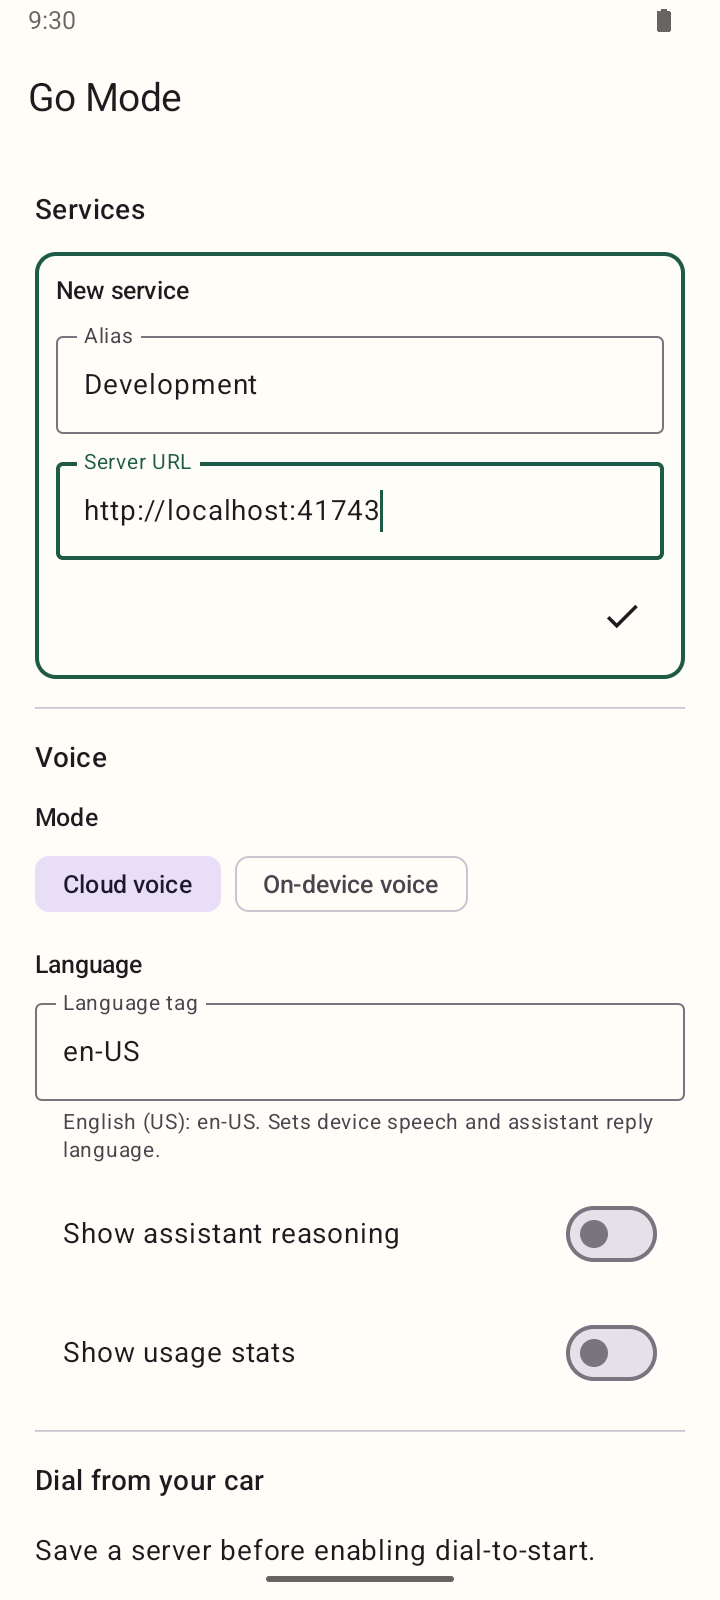
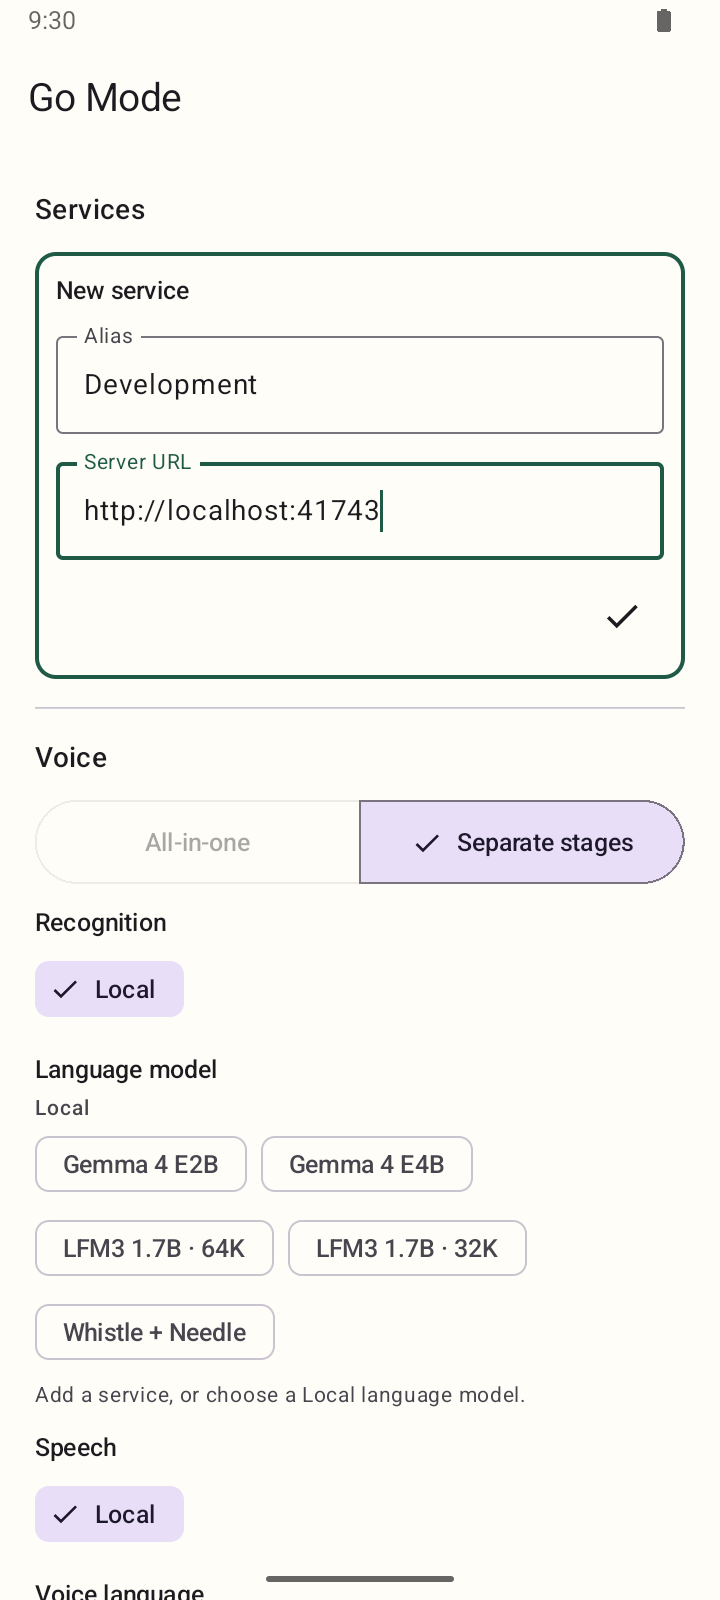
Sync guides and captures with gomode 4b814d6
Voice choices moved to an embedded voice-choices.toml with required,
stable ids; the guide now documents the override file, id rules,
context_size for managed llama.cpp, live-only recognition with the
nemospeech and whistle engines, KittenTTS, per-stage session language,
STUN advertisement, and the optional llama.cpp and Ollama keys. Groq
Whisper and the streaming flag are gone.

Android and web share one voice setup: All-in-one or Separate stages
with Recognition, Language model, and Speech chips. The Cloud voice,
On-device, and Remote LLM wording is replaced, and the Android guide
shows both setup captures. Voice now reaches only the active service,
withdrawn selections fall back to the gateway default, and voice errors
stay until dismissed.

Captures are 720x1600; the img attributes claimed 1080x2400. The SDK
regeneration command is make fix; make generate-sdks no longer exists.

Validation: pnpm run fix, verify, build, wrangler deploy --dry-run, and
the Playwright suite (2 passed, desktop and mobile).

diff --git a/guide/voice.md b/guide/voice.md
@@ -9,7 +9,7 @@ Go Mode’s gateway connects clients to a voice backend through one service-neut
 | Embedded   | Voice runs with the host process                                  | Host session policy            |
 | Standalone | Voice needs a separate machine, scaling, or local model isolation | Short-lived host-issued tokens |
 
-Embedded hosts mount `voicegateway.NewEmbeddedHandler` and advertise the gateway URL in discovery. Embed `voicegateway.Config` under a section of the host’s TOML file; the same `[[realtime]]`, `[[llm]]`, `[[asr]]`, `[[tts]]`, and `[[voice]]` entries apply. The [`Config` documentation](https://pkg.go.dev/github.com/maruel/gomode/voicegateway#Config) lists the startup calls. An external gateway runs `voice-gateway` and accepts only configured trusted issuers.
+Embedded hosts mount `voicegateway.NewEmbeddedHandler` and advertise the gateway URL in discovery. `voicegateway.ReadConfig` reads `voice-choices.toml` from the host’s configuration directory, with the same entries as the standalone gateway. The host embeds `voicegateway.WebRTCConfig` in its own TOML file for the UDP port and STUN servers. The [`Config` documentation](https://pkg.go.dev/github.com/maruel/gomode/voicegateway#Config) lists the startup calls. An external gateway runs `voice-gateway` and accepts only configured trusted issuers.
 
 ## Install the standalone gateway
 
@@ -36,7 +36,7 @@ Invoke-WebRequest -UseBasicParsing https://raw.githubusercontent.com/maruel/gomo
 | Service          | systemd user `voice-gateway.service`         | launchd user `com.maruel.voice-gateway` | Scheduled task `GoModeVoiceGateway`   |
 | Logs             | `journalctl --user -u voice-gateway.service` | `~/Library/Logs/voice-gateway.log`      | `voice-gateway.log` beside executable |
 
-The configuration is `~/.config/voice-gateway/config.toml`, or under `XDG_CONFIG_HOME` when set. Start from [contrib/config.toml](https://github.com/maruel/gomode/blob/main/contrib/config.toml). Replace the example trusted issuer before accepting clients.
+The configuration is `~/.config/voice-gateway/config.toml`, or under `XDG_CONFIG_HOME` when set. Start from [contrib/config.toml](https://github.com/maruel/gomode/blob/main/contrib/config.toml). Replace the example trusted issuer before accepting clients. The gateway restarts when `config.toml` or `voice-choices.toml` changes.
 
 Released binaries check for a new stable release every day at 04:50 local time and restart after active sessions drain. Set `auto_update` to another cron schedule, or to an empty string to disable updates.
 
@@ -51,7 +51,9 @@ voice-gateway -config ~/.config/voice-gateway/config.toml
 
 One gateway URL offers several named choices. Clients list them, filter them by transport, and save the user’s selection. A choice is the only thing a client selects; it never names a provider.
 
-The configuration declares choices in three groups, offered in this order:
+The release embeds [default choices](https://github.com/maruel/gomode/blob/main/voicegateway/voice-choices.toml) for Gemini, OpenAI, Anthropic, DeepSeek, OpenRouter, Mistral, Alibaba, and local models. To customize them, copy that file to `voice-choices.toml` beside `config.toml`. The copy replaces the defaults entirely and no longer follows later releases. Voice tables in `config.toml` stop startup.
+
+The file declares choices in three groups, offered in this order:
 
 - **`[[realtime]]`:** a speech-to-speech model that owns recognition, conversation, and synthesis.
 - **`[[llm]]`:** a language model with recognition and synthesis selected separately, either on the gateway or on the client.
@@ -59,70 +61,83 @@ The configuration declares choices in three groups, offered in this order:
 
 ```toml
 [[realtime]]
+id = "gemini-live"
 label = "Gemini Live"
 provider = "gemini"
 model = "gemini-3.8-live"
 
 [[llm]]
-id = "gemini_flash"
+id = "gemini-flash"
 label = "Gemini Flash"
 provider = "gemini"
 model = "gemini-3.8-flash"
 effort = "low"
 
 [[asr]]
-id = "whisper"
-label = "Groq Whisper"
-provider = "groq"
-model = "whisper-large-v3-turbo"
+id = "gemini-transcribe-live"
+label = "Gemini Transcribe"
+provider = "gemini"
+model = "gemini-3.5-transcribe-live"
 
 [[tts]]
-id = "gemini"
-label = "Gemini TTS"
+id = "gemini-tts"
+label = "Gemini Flash Lite TTS"
 provider = "gemini"
 model = "gemini-3.8-flash-lite-tts"
 voice = "Kore"
 
 [[voice]]
-label = "Groq Whisper with Gemini Flash"
-asr = "whisper"
-llm = "gemini_flash"
-tts = "gemini"
+id = "gemini-speech-flash"
+label = "Gemini speech with Gemini Flash"
+asr = "gemini-transcribe-live"
+llm = "gemini-flash"
+tts = "gemini-tts"
 ```
 
-`provider` names a [genai](https://github.com/maruel/genai) provider, such as `gemini`, `openai`, `anthropic`, `deepseek`, `openrouter`, `mistral`, `groq`, or `llamacpp`. `effort` requests a reasoning level from `off` to `max` where the model supports it. A `llamacpp` entry with `llamacppsrv = true` downloads and runs a managed llama.cpp server; `remote` points to a server you run. `provider = "openai"` with `auth = "codex"` uses the gateway user’s Codex login instead of an API key.
+Every entry needs an `id`: 1 to 64 lowercase letters, digits, `-`, or `_`, starting with a letter or digit. Clients save ids, so keep an entry’s id when you tune its other settings. Ids are unique among `[[realtime]]`, `[[llm]]`, and `[[voice]]` together, among `[[asr]]`, and among `[[tts]]`.
+
+`provider` names a [genai](https://github.com/maruel/genai) provider, such as `gemini`, `openai`, `anthropic`, `deepseek`, `openrouter`, `mistral`, `alibaba`, or `llamacpp`. `effort` requests a reasoning level from `off` to `max` where the model supports it. A `llamacpp` entry with `llamacppsrv = true` downloads and runs a managed llama.cpp server and requires `context_size`; `remote` points to a server you run. `provider = "openai"` with `auth = "codex"` uses the gateway user’s Codex login instead of an API key.
 
 At startup, the standalone gateway hides choices whose provider is unavailable and logs a warning. An empty catalog stops startup.
 
-Local models load on first use. `[local_stack_runtime]` sets how long an idle choice stays loaded and how many choices run at once. Active sessions keep their choice loaded; another choice waits when every slot is busy.
+Local models load on first use, and voice progress names the current startup step, such as a model download. `[local_stack_runtime]` sets how long an idle choice stays loaded and how many choices run at once. Active sessions keep their choice loaded; another choice waits when every slot is busy.
 
 ### Discovery
 
 `GET /api/voicegateway/v2/voice/choices` returns the public metadata clients need. Each choice carries an `id`, a `label`, and its `transports`. A `webrtc` transport means the gateway handles audio. A `text` transport means the client handles speech and sends text. Audio choices that support voice selection also list their speaking `voices`. `defaults` names one default choice per transport. Discovery carries no credentials and no model endpoint addresses.
 
-The gateway derives each choice ID from its effective settings. Changing a model or its options changes the ID, and a client that saved the old ID asks the user to select again. Labels do not affect IDs.
+Discovery also lists the gateway’s recognition and synthesis models, and its `stunServers` for WebRTC clients. A speaking voice carries an optional language; clients offer the voices without one and those of the session language.
 
-Clients save the choice per gateway URL and the speaking voice per gateway and choice. Every new session pins both. When a saved choice or speaking voice disappears, connecting is blocked until the user selects an available one, while active sessions keep the values they already resolved.
+Clients save the choice, the stage models, and the speaking voice per gateway. Every new session pins them. When the gateway withdraws a saved entry, clients use the default instead: the advertised default choice, the first listed model, or the provider’s voice. Settings show what a session will use, and the next edit saves it. A recovering session that lost a pinned entry fails and asks for a new session.
 
-### Local stages
+### Speech stages
 
-A fully local stack needs `uv` on the gateway’s `PATH` and stages that need no provider API key. For managed llama.cpp speech, omit `remote`; to use a speech server you run, set `remote` to its origin. A recognition stage with `streaming = true` transcribes while you speak. For single-model audio instead of separate stages, use an LFM3 `[[realtime]]` choice; `staged = true` adds a text step for thinking and tool calls before LFM3 speaks. [contrib/config.toml](https://github.com/maruel/gomode/blob/main/contrib/config.toml) holds complete examples.
+Each recognition stage opens a live transcription session per utterance; models that support it show draft text while you speak. Recognition uses a genai provider with live transcription, such as `gemini`, `llamacpp`, `mistral`, or `openai`, or a local engine:
+
+| Engine       | Models                                                                                       |
+| ------------ | -------------------------------------------------------------------------------------------- |
+| `nemospeech` | NVIDIA `parakeet-tdt`, `nemotron-3.5`, and the English-only `nemotron-en` and `parakeet-ctc` |
+| `whistle`    | Cactus Whistle                                                                               |
+
+Synthesis uses a genai provider, such as Gemini TTS or llama.cpp, or `engine = "kittentts"` with Kitten TTS 2 1.7B or its 82M mini model.
+
+Every stage follows the session language: models that take a language receive it, and others ignore it. A model that declares its languages rejects another one at session setup; other recognizers reject it when the utterance starts. Each KittenTTS voice speaks one language, so a session in another language uses that language’s first voice.
+
+A fully local stack needs only stages without a provider API key. Managed engines download their release and models on first use; omit `remote` for a managed server, or set `remote` to the origin of a server you run. For single-model audio instead of separate stages, use an LFM3 `[[realtime]]` choice; `staged = true` adds a text step for thinking and tool calls before LFM3 speaks. The [default choices](https://github.com/maruel/gomode/blob/main/voicegateway/voice-choices.toml) hold complete examples.
 
 ## Audio and text modes
 
-Cloud audio uses WebRTC with Opus audio and the `voice-gateway` data channel. Android **On-device** speech uses Android recognition and synthesis, connected to the gateway’s text WebSocket.
+Android and the browser integration share one voice setup. **All-in-one** selects a realtime choice. **Separate stages** selects recognition, a language model, and speech; each speech stage runs on the gateway or on the client. Client speech is Android recognition and text to speech, or the browser’s speech APIs, whose recognition may use the browser vendor’s service.
 
-The browser integration offers **Cloud voice** and **Browser speech**. Browser speech availability depends on the browser; its recognition may use the browser vendor’s service.
+A session uses WebRTC with Opus audio and the `voice-gateway` data channel. When the client owns both recognition and speech, it connects to the gateway’s text WebSocket instead. Discovery marks the matching choices with the `webrtc` and `text` transports. [Android setup](./android) covers the settings.
 
-Cloud voice asks discovery for `webrtc` choices and client speech modes ask for `text` choices. [Android setup](./android) covers the speech modes and their settings.
-
-Device speech through the **Remote LLM** engine and browser speech still use the gateway’s language model. They are not an offline guarantee.
+Client speech with a gateway language model is not an offline guarantee.
 
 The gateway owns the common voice instructions: tone, quiet context updates, isolation between services, and the reply language. Hosts supply only their MCP server instructions.
 
 ## API credentials
 
-The gateway never reads credentials from its config file. Install the [credentials template](https://github.com/maruel/gomode/blob/main/contrib/voice-gateway.env.example) at the credentials file path, then uncomment the keys your choices need. Each provider reads genai’s environment variable, such as `GEMINI_API_KEY`, `OPENAI_API_KEY`, `ANTHROPIC_API_KEY`, or `GROQ_API_KEY`. An `openaicompatible` endpoint reads the variable named by its `api_key_name`.
+The gateway never reads credentials from its config file. Install the [credentials template](https://github.com/maruel/gomode/blob/main/contrib/voice-gateway.env.example) at the credentials file path, then uncomment the keys your choices need. Each provider reads genai’s environment variable, such as `GEMINI_API_KEY`, `OPENAI_API_KEY`, or `ANTHROPIC_API_KEY`. `LLAMA_API_KEY` and `OLLAMA_API_KEY` are optional; when set, the gateway sends them to llama.cpp or Ollama, and a managed llama.cpp server enforces `LLAMA_API_KEY`. An `openaicompatible` endpoint reads the variable named by its `api_key_name`.
 
 On Linux:
 
@@ -154,6 +169,8 @@ Browsers redeem single-use text-session tickets through `POST /api/voicegateway/
 ## Network requirements
 
 Put HTTPS in front of signaling, and make the gateway’s WebRTC UDP port reachable; the example uses UDP 3480. The standalone gateway can request a UPnP mapping, but that does not solve blocked UDP or every NAT topology. A successful HTTP request does not prove the audio path can connect.
+
+`stun_servers` lists the STUN servers clients use to learn their public address, Google’s public server by default. Set it to `[]` when clients reach the UDP port directly or through UPnP; clients then contact no STUN server.
 
 The `[server]` section controls exposure:
 

diff --git a/guide/android.md b/guide/android.md
@@ -32,46 +32,47 @@ The debug application ID is `com.fghbuild.gomode`. Build targets and prerequisit
 4. Tap the check mark to add the service.
 5. Sign in through the host’s frontend when required.
 
-Each saved service is a card with its alias, URL, readiness, and any connection error. A failed connection shows a retry action. **Needs attention** marks a hosted page that waits for you, and **Active** marks the service on screen.
+Each saved service is a card with its alias, URL, readiness, and any connection error. A failed connection shows a retry action. A service you have not opened shows **Not loaded yet** and a **Load page** action that loads it without switching to it. **Needs attention** marks a hosted page that waits for you, and **Active** marks the service on screen.
 
 The edit action turns the card into its editor. Go Mode saves changes automatically, and the check mark closes the editor. The delete action asks for confirmation. Go Mode rejects an alias or URL that another saved service already uses, ignoring alias case. A service cannot be deleted during a voice session.
 
 The service URL must be reachable from the phone. A phone’s `localhost` means the phone, not your development machine. Use a reachable address or a private network such as Tailscale. Android emulator access to a host machine commonly uses `10.0.2.2`; for local instrumented tests, the project runner configures `adb reverse`.
 
 <div class="native-gallery">
-<figure><a class="docs-screenshot-link" href="/screenshots/connections.webp" target="_blank" rel="noopener"><img src="/screenshots/connections.webp" width="1080" height="2400" alt="Native service connections screen" loading="lazy"></a><figcaption>Saved service connections</figcaption></figure>
-<figure><a class="docs-screenshot-link" href="/screenshots/service-editor.webp" target="_blank" rel="noopener"><img src="/screenshots/service-editor.webp" width="1080" height="2400" alt="Native Go Mode connection editor" loading="lazy"></a><figcaption>Add or edit a saved service</figcaption></figure>
+<figure><a class="docs-screenshot-link" href="/screenshots/connections.webp" target="_blank" rel="noopener"><img src="/screenshots/connections.webp" width="720" height="1600" alt="Native service connections screen" loading="lazy"></a><figcaption>Saved service connections</figcaption></figure>
+<figure><a class="docs-screenshot-link" href="/screenshots/service-editor.webp" target="_blank" rel="noopener"><img src="/screenshots/service-editor.webp" width="720" height="1600" alt="Native Go Mode connection editor" loading="lazy"></a><figcaption>Add or edit a saved service</figcaption></figure>
 </div>
 
 ## Choose how you speak
 
-In native Settings, select **Cloud voice** or **On-device voice**, then set the voice language. Go Mode locks the mode, the voice choice, and the language while a voice session connects or stays active.
+Under **Voice** in native Settings, select a setup. Go Mode locks the voice settings while a voice session connects or stays active.
 
-### Cloud voice
+- **All-in-one:** the **Model** chips list the realtime choices your gateway advertises. One model handles recognition, conversation, and speech.
+- **Separate stages:** pick **Recognition**, **Language model**, and **Speech** independently. **Local** recognition and speech run on Android; the other chips are the gateway’s models.
 
-Cloud voice sends microphone audio over WebRTC and plays the audio the gateway returns. The **Model** list shows the audio choices your gateway advertises, and each new session uses the choice you saved. When the selected choice advertises speaking voices, a **Speaking voice** list selects the voice you hear; **Provider default** keeps the provider’s voice. [Voice gateway](./voice) covers how a gateway offers those choices.
+The **Language model** chips list the gateway’s language models, then a **Local** group of on-device models:
 
-### On-device voice
+- **Gemma 4** and **LFM3** variants run on the phone through LiteRT-LM.
+- **Whistle + Needle** is an experimental pair that matches recognized speech to tool actions. It does not use a conversational language model.
 
-On-device voice uses Android recognition for speech and Android text to speech for replies. The **Engine** choice decides what handles each turn:
+An on-device language model needs Local recognition and speech. Its turns run on the device; tool calls still reach the host through MCP. Without a saved service, choose a local model; a gateway model needs a service.
 
-- **Remote LLM:** the transcript goes to the gateway’s text session. The gateway supplies the language model and the device supplies speech. The **LLM** list selects a text-capable gateway choice.
-- **Local LLM:** a LiteRT-LM model runs on the phone. The **Model** list selects the weights.
-- **Whistle + Needle:** an experimental pair that matches recognized speech to tool actions. It does not use a conversational language model.
+On-device speech does not mean the whole conversation works offline. Recognition availability and processing depend on Android and the installed speech service.
 
-Local LLM turns run on the device. Tool calls still reach the host through MCP.
+The **Voice language** is a BCP 47 tag, `en-US` by default. It applies to recognition, speech, and replies, and filters the **Speaking voice** list to the voices of that language. Gateway speech offers **Provider default** or the gateway’s voices; Local speech offers **Local default** or Android’s voices, and a **Speaking speed**. [Voice gateway](./voice) covers how a gateway offers its choices.
 
-On-device speech does not mean the whole conversation works offline. Recognition availability and processing depend on Android and the installed speech service. Remote LLM needs a compatible gateway.
+Until you pick, Go Mode follows the gateway’s default setup. When the gateway withdraws a saved choice, Settings shows the default the session uses instead.
 
-The voice language is a BCP 47 tag, `en-US` by default. It sets the device speech language and the language the assistant replies in.
+Under **Display**, **Show assistant reasoning** and **Show usage stats** add the model’s reasoning and token counts to the transcript. **Thinking music** plays while the assistant works; its control previews it.
 
-**Show assistant reasoning** and **Show usage stats** add the model’s reasoning and token counts to the transcript. **Thinking music** plays while the assistant works; its control previews it.
-
-<a class="docs-screenshot-link docs-screenshot-link--capture" href="/screenshots/voice-settings.webp" target="_blank" rel="noopener"><img class="native-capture" src="/screenshots/voice-settings.webp" width="1080" height="2400" alt="Native voice mode and language settings" loading="lazy"></a>
+<div class="native-gallery">
+<figure><a class="docs-screenshot-link" href="/screenshots/voice-settings-all-in-one.webp" target="_blank" rel="noopener"><img src="/screenshots/voice-settings-all-in-one.webp" width="720" height="1600" alt="Native all-in-one voice setup with a realtime model" loading="lazy"></a><figcaption>All-in-one</figcaption></figure>
+<figure><a class="docs-screenshot-link" href="/screenshots/voice-settings.webp" target="_blank" rel="noopener"><img src="/screenshots/voice-settings.webp" width="720" height="1600" alt="Native separate-stages voice setup with recognition, language model, and speech chips" loading="lazy"></a><figcaption>Separate stages</figcaption></figure>
+</div>
 
 ### Download a local model
 
-Select **Local LLM**, select a model, and tap **Download model**.
+Select a model in the **Local** group of **Language model**, then tap **Download model**.
 
 | Model             | Context limit |
 | ----------------- | ------------- |
@@ -91,13 +92,13 @@ The voice bar sits at the bottom of the hosted page. The microphone button cycle
 - **Mute once:** the microphone stays closed until the current reply ends or you interrupt it.
 - **Muted:** the microphone stays closed until you unmute it.
 
-The assistant can call `mute` when you ask it to mute you; it uses **Mute once**. Speaking during a reply interrupts it. Ended conversations stay behind the **Transcript** control. **Recent tool calls** lists the tools the assistant ran.
+The assistant can call `mute` when you ask it to mute you; it uses **Mute once**. Speaking during a reply interrupts it. A voice error stays in the panel until you dismiss it or connect again. Ended conversations stay behind the **Transcript** control. **Recent tool calls** lists the tools the assistant ran.
 
 ## Use several services
 
-Every ready saved service stays callable. Switching the visible service keeps one conversation, transport, transcript, and foreground notification.
+Every ready saved service stays signed in and monitored. Voice reaches only the service on screen: its context and its tools. Switching the visible service keeps one conversation, transport, transcript, and foreground notification, and the assistant announces a switch you make.
 
-Voice can list the saved services and switch between them. The **Next server** control beside Settings cycles saved services in their saved order and wraps to the first. It works with voice active, idle, or unavailable, and appears once two services are saved.
+Voice can list the saved services and switch between them. Alerts from hidden services still reach the conversation. The **Next server** control beside Settings cycles saved services in their saved order and wraps to the first. It works with voice active, idle, or unavailable, and appears once two services are saved.
 
 `hang_up` ends the voice session. Whistle + Needle does not offer the native voice commands.
 
@@ -133,6 +134,6 @@ Hosted file inputs open the Android system document picker, which lists Screensh
 
 Halo settings connect optional Brilliant Labs Halo glasses. The emulator capture shows configuration, not a verified physical-device connection.
 
-<a class="docs-screenshot-link docs-screenshot-link--capture" href="/screenshots/halo.webp" target="_blank" rel="noopener"><img class="native-capture" src="/screenshots/halo.webp" width="1080" height="2400" alt="Native Halo glasses configuration" loading="lazy"></a>
+<a class="docs-screenshot-link docs-screenshot-link--capture" href="/screenshots/halo.webp" target="_blank" rel="noopener"><img class="native-capture" src="/screenshots/halo.webp" width="720" height="1600" alt="Native Halo glasses configuration" loading="lazy"></a>
 
 See [Troubleshooting](./troubleshooting) when the hosted page loads but native features remain unavailable.

diff --git a/guide/troubleshooting.md b/guide/troubleshooting.md
@@ -38,7 +38,7 @@ Some providers prohibit embedded login. Test the actual WebView flow; a working 
 
 Check microphone permission, selected audio route, device volume, and the gateway’s reachable UDP port. Verify the gateway backend and its credentials or local runtime. HTTPS signaling can succeed while WebRTC media fails.
 
-For On-device or Browser speech, check recognition and synthesis support and that the gateway offers a `text` choice. Try Cloud voice when the platform’s recognition service is unavailable.
+For Local or Browser recognition and speech, check the platform’s recognition and synthesis support. Select the gateway’s recognition or speech models when the platform’s service is unavailable.
 
 A microphone that is denied or blocked shows a problem in the voice bar with a way to open app settings. Check that the microphone button is not set to **Muted**.
 
@@ -48,7 +48,7 @@ Native voice prefers a Bluetooth device when Voice connects, if one is already a
 
 ## A local voice model does not load
 
-Check in Settings that the selected model is downloaded; a missing model shows **Not downloaded**. Expand **Model load diagnostics** to see which load stage failed and how much memory it used. A load that ended the app shows Android’s exit reason, such as **Low memory**. End the voice session before changing the model.
+A gateway’s local stack downloads its models on first use; the voice progress names the current step. For a model on the phone, check in Settings that the selected model is downloaded; a missing model shows **Not downloaded**. Expand **Model load diagnostics** to see which load stage failed and how much memory it used. A load that ended the app shows Android’s exit reason, such as **Low memory**. End the voice session before changing the model.
 
 ## Gateway voice choices do not appear
 
@@ -58,15 +58,17 @@ Check the discovery manifest’s gateway URL, then read the choices endpoint dir
 curl -fsS https://your-gateway.example/api/voicegateway/v2/voice/choices
 ```
 
-Go Mode shows the gateway’s error text with a retry action. The usual causes are a gateway that is not running or a provider whose credentials are missing; the standalone gateway hides those choices at startup and logs a warning. Check the gateway log. A choice also has to serve the transport of the selected speech mode: `webrtc` for Cloud voice and `text` for Remote LLM.
+Go Mode shows the gateway’s error text with a retry action. The usual causes are a gateway that is not running or a provider whose credentials are missing; the standalone gateway hides those choices at startup and logs a warning. Check the gateway log. A language model appears under **Separate stages** only when it serves the selected stages: `text` when the client owns both recognition and speech, and `webrtc` otherwise.
 
-## A saved voice choice or speaking voice is unavailable
+## A saved voice choice or speaking voice changed
 
-Go Mode blocks reconnecting until you select an available choice or speaking voice from Settings; an active session keeps the values it resolved. A saved entry disappears when the gateway configuration changes the choice’s model or options, because the choice ID derives from them. Select another entry and reconnect.
+When the gateway stops offering a saved choice, model, or speaking voice, new sessions use the gateway’s default and Settings shows it. A session that reconnects after the change fails with **Start a new voice session**. Keep each entry’s `id` stable in `voice-choices.toml` so tuning a model keeps the users’ selections.
 
-## Switching services does not change what voice can reach
+A speaking voice of another language than the voice language does not appear; change the voice language first.
 
-Voice lists the saved services that finished discovery. A service with a failed connection or an incompatible manifest is not callable until its connection succeeds, and the Services list shows its readiness and a retry action. Adding a second saved service also makes the **Next server** control appear.
+## Voice cannot reach a service
+
+Voice reaches only the service on screen. Switch to it with **Next server** or ask the assistant to switch. Voice lists the saved services that finished discovery. A service with a failed connection or an incompatible manifest is not callable until its connection succeeds, and the Services list shows its readiness and a retry action.
 
 ## A service or voice drops after a network change
 

diff --git a/index.md b/index.md
@@ -17,10 +17,10 @@ features:
     details: Keep your frontend, accounts, and product APIs. Go Mode discovers the host and adds native capabilities.
     link: /guide/architecture
   - title: Voice your way
-    details: Pick a realtime model, compose recognition, LLM, and speech stages, or download a model to the phone. Conversation still calls your host’s MCP tools.
+    details: Pick a realtime model, or compose recognition, language model, and speech stages on the gateway or the phone. Conversation still calls your host’s MCP tools.
     link: /guide/voice
   - title: Several services at once
-    details: Every saved service stays signed in and callable from one voice conversation. Dial a service from your car.
+    details: Every saved service stays signed in. One voice conversation follows the service on screen. Dial a service from your car.
     link: /guide/android
   - title: Alerts you can open
     details: Host alerts arrive as notifications that open the right page in the right saved service.
@@ -37,9 +37,9 @@ features:
 Go Mode owns Android, voice, and the shared host contract. [caic](https://docs.caic.xyz/caic/) owns coding-agent workflows; its task list, conversation, and review screens stay in its hosted frontend.
 
 <div class="native-gallery">
-<figure><a class="docs-screenshot-link" href="/screenshots/connections.webp" target="_blank" rel="noopener"><img src="/screenshots/connections.webp" width="1080" height="2400" alt="Native Go Mode service connections screen" loading="lazy"></a><figcaption>Connect your own services</figcaption></figure>
-<figure><a class="docs-screenshot-link" href="/screenshots/hosted-service.webp" target="_blank" rel="noopener"><img src="/screenshots/hosted-service.webp" width="1080" height="2400" alt="Go Mode shell displaying the Field Notes demonstration service" loading="lazy"></a><figcaption>A hosted frontend inside the native shell</figcaption></figure>
-<figure><a class="docs-screenshot-link" href="/screenshots/voice-settings.webp" target="_blank" rel="noopener"><img src="/screenshots/voice-settings.webp" width="1080" height="2400" alt="Native Go Mode voice settings" loading="lazy"></a><figcaption>Choose voice mode and language</figcaption></figure>
+<figure><a class="docs-screenshot-link" href="/screenshots/connections.webp" target="_blank" rel="noopener"><img src="/screenshots/connections.webp" width="720" height="1600" alt="Native Go Mode service connections screen" loading="lazy"></a><figcaption>Connect your own services</figcaption></figure>
+<figure><a class="docs-screenshot-link" href="/screenshots/hosted-service.webp" target="_blank" rel="noopener"><img src="/screenshots/hosted-service.webp" width="720" height="1600" alt="Go Mode shell displaying the Field Notes demonstration service" loading="lazy"></a><figcaption>A hosted frontend inside the native shell</figcaption></figure>
+<figure><a class="docs-screenshot-link" href="/screenshots/voice-settings.webp" target="_blank" rel="noopener"><img src="/screenshots/voice-settings.webp" width="720" height="1600" alt="Native Go Mode voice settings" loading="lazy"></a><figcaption>Choose each voice stage and language</figcaption></figure>
 </div>
 
 Captures come from the running Android emulator. Field Notes is a demonstration service.

diff --git a/guide/sdk.md b/guide/sdk.md
@@ -44,7 +44,7 @@ The MCP endpoint must be a same-origin path or URL. `HostModeProvider` detects t
 | `@maruel/gomode/web/FrontendVoiceTools` | Bridge 3 authentication, frontend tool registration, and readiness          |
 | `@maruel/gomode/web/BrowserVoiceShell`  | Browser voice discovery, setup, and runtime                                 |
 | `@maruel/gomode/web/VoiceOverlay`       | Voice bar, transcript, and tool history                                     |
-| `@maruel/gomode/web/VoiceSettings`      | Voice mode, choice, speaking voice, speed, and language settings            |
+| `@maruel/gomode/web/VoiceSettings`      | Voice setup, speech stages, speaking voice, speed, and language settings    |
 | `@maruel/gomode/web/VoiceMessages`      | English labels; `/de`, `/es`, and `/fr` hold translations                   |
 | `@maruel/gomode/web/notifications`      | Browser notification permission, delivery, dismissal, and voice suppression |
 | `@maruel/gomode/web/DeviceLogin`        | Device sign-in code display and approval                                    |
@@ -53,7 +53,7 @@ The MCP endpoint must be a same-origin path or URL. `HostModeProvider` detects t
 
 `BrowserVoiceShell` takes the expected service and tool-group names, the client name, and the preparation scope. It discovers the manifest only in browser mode and only when the scope is ready. An external gateway needs a same-origin token endpoint and an `authorize(endpoint)` callback that performs the host’s token exchange. A missing discovery route means voice is unavailable; a malformed manifest is a setup error.
 
-`VoiceSettings` offers **Cloud voice** and **Browser speech**, the gateway choice, the speaking voice, the speaking speed, and the voice language, and it saves each of them. An active session locks the voice mode, the choice, and the language. The choices and speaking voices come from the gateway, so a host that offers several backends does not model them itself.
+`VoiceSettings` offers the same setup as Android: **All-in-one** with a realtime model, or **Separate stages** with **Recognition**, **Language model**, and **Speech**, where **Browser** selects the browser’s speech APIs. It also offers the voice language, speaking voice, and speaking speed, and saves each of them. An active session locks them. The choices, models, and speaking voices come from the gateway, so a host that offers several backends does not model them itself.
 
 The host decides which product events become alerts and when they expire.
 
@@ -72,10 +72,10 @@ Every SDK import names its protocol version; there are no unversioned exports. T
 
 Voice gateway v2 is the current signaling and data-channel contract. The gateway still serves v1 for clients built against the v0.3.0 release.
 
-After changing wire DTOs or routes in Go Mode, maintainers run:
+After changing wire DTOs or routes in Go Mode, maintainers regenerate the SDKs with:
 
 ```bash
-make generate-sdks
+make fix
 ```
 
 Consumers use the generated clients; generated files are not edited by hand. [The upstream package manifest](https://github.com/maruel/gomode/blob/main/package.json) is the source of truth for exports and peer dependencies.

diff --git a/guide/index.md b/guide/index.md
@@ -8,7 +8,7 @@ The host keeps its accounts, authorization, product APIs, and content. Go Mode o
 
 - **Use an existing host:** [build and configure the Android app](./android).
 - **Connect your own application:** [serve the discovery manifest](./host), then add [authentication](./authentication) and [MCP tools](./skills).
-- **Add conversation:** install a standalone [voice gateway](./voice) or embed one in your host, then select a cloud or on-device voice mode in the [Android app](./android).
+- **Add conversation:** install a standalone [voice gateway](./voice) or embed one in your host, then choose the voice setup in the [Android app](./android).
 - **Integrate a browser frontend:** use the [SolidJS package and generated SDKs](./sdk).
 
 ## How caic fits
@@ -19,6 +19,6 @@ For coding-agent setup, use [caic’s documentation](https://docs.caic.xyz/caic/
 
 ## Current scope
 
-The Android app loads each service’s first advertised MCP tool group. Every saved service stays signed in, and one voice conversation can call the tools of all of them. Voice uses named gateway choices, such as realtime models and composed recognition, language model, and speech stages, or a model downloaded to the phone. A car can start voice by dialing a saved service. Hosts can publish actionable alerts that open the right page in the right service. Context-based progressive skill activation and external-browser provider login are design work, not current setup steps.
+The Android app loads each service’s first advertised MCP tool group. Every saved service stays signed in, and one voice conversation follows the service on screen. Voice uses a realtime model, or separate recognition, language model, and speech stages that each run on the gateway or the phone. A car can start voice by dialing a saved service. Hosts can publish actionable alerts that open the right page in the right service. Context-based progressive skill activation and external-browser provider login are design work, not current setup steps.
 
 [Architecture](./architecture) explains the boundaries. [Troubleshooting](./troubleshooting) covers failed discovery, authentication, and voice connections.

diff --git a/guide/architecture.md b/guide/architecture.md
@@ -23,12 +23,12 @@ After a confirmed login signal and frontend preparation, native MCP and voice re
 ## Voice tool flow
 
 1. The client discovers each service’s tool group and the gateway of the service that starts voice.
-2. It reads each service’s MCP instructions and model context resources.
+2. It reads the active service’s MCP instructions and model context resources.
 3. It starts a voice or text session with the gateway.
 4. The gateway requests a tool call.
 5. The client executes it through the owning host’s MCP endpoint or frontend and returns the result.
 
-Native voice exposes every ready service through three catalog tools: `discover_service`, `dispatch_service_tool`, and `read_service_resource`. A call names its service and tool, and the client validates the arguments against that tool’s schema before execution. A call for an unavailable service fails; it never reaches another service.
+Native voice exposes the active service through three catalog tools: `discover_service`, `dispatch_service_tool`, and `read_service_resource`. A call targets the active service; an optional `server_id` must name it, so a call prepared before a switch fails instead of reaching the new service. The client validates the arguments against the tool’s schema before execution. Hidden services keep monitoring, and their alerts still reach the conversation.
 
 The gateway does not call the host’s MCP endpoint itself and does not own service-item state. The host authorizes each action.
 

diff --git a/guide/host.md b/guide/host.md
@@ -60,9 +60,9 @@ The shell uses each service’s first tool group. Do not rely on progressive ski
 
 ## Offer voice choices
 
-A gateway can offer several named voice choices at one URL. The shell lists the choices your gateway advertises, filters them by transport, and saves the user’s choice and speaking voice for that gateway.
+A gateway can offer several named voice choices at one URL, plus recognition and synthesis models for separate stages. The shell lists what your gateway advertises and saves the user’s selections for that gateway.
 
-Each choice carries an ID, a label, and the transports it serves. An audio choice that supports voice selection also lists its speaking voices. A text-only choice appears only where the client handles speech. See [voice gateway](./voice) for the configuration.
+Each choice carries the `id` from the gateway configuration, a label, and the transports it serves. An audio choice that supports voice selection also lists its speaking voices. A text-only choice appears only where the client handles speech. See [voice gateway](./voice) for the configuration.
 
 The choices come from `GET /api/voicegateway/v2/voice/choices` on the gateway. Mount the gateway with Go Mode’s handler, or run it as a service, and this endpoint needs no extra host code.
 

diff --git a/AGENTS.md b/AGENTS.md
@@ -10,7 +10,7 @@ Read current [Cloudflare documentation](https://developers.cloudflare.com/worker
 
 ## Last synced
 
-The guides and screenshots were last reconciled against gomode commit `f5a1e52763bb7f013f2a79acfd19cf5400493175` on 2026-11-12. When you update that commit, refresh the screenshots and import them before committing. Review `git log <hash>..HEAD` when updating.
+The guides and screenshots were last reconciled against gomode commit `4b814d6e12b69d85721d0b2f2ad5db09dbfbd456` on 2026-11-16. When you update that commit, refresh the screenshots and import them before committing. Review `git log <hash>..HEAD` when updating.
 
 ## Authoring and validation
 
